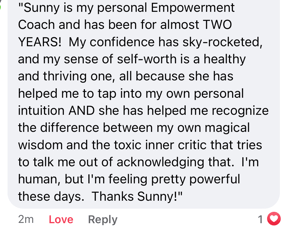
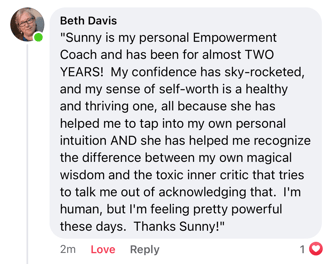
SPP: Beth's full screenshot (her permission)

diff --git a/shadow-priestess-path/index.html b/shadow-priestess-path/index.html
@@ -245,7 +245,7 @@ footer{padding:28px 0 40px;text-align:center;font:600 11px/1.6 var(--label);lett
       <img src="proof-2.png" width="333" height="237" loading="lazy" alt="A student: Before meeting Sunny I never knew just how much power resided within me. In my entire 42 years of life I have never encountered a better teacher.">
       <img src="proof-3.png" width="333" height="280" loading="lazy" alt="A student: Before working with Sunny I didn't feel all that connected to my intuition. Her teaching method is full of warmth, patience, kindness, and acceptance.">
       <img src="proof-4.png" width="333" height="362" loading="lazy" alt="A student: I was going through a rough patch and felt stuck until I found Sunny. I did shadow work, readings, learned some tarot, and found my light again.">
-      <img src="proof-5.png" width="291" height="234" loading="lazy" alt="A student: My confidence has sky-rocketed. She has helped me tap into my own personal intuition and recognize my own magical wisdom.">
+      <img src="proof-5.png" width="333" height="264" loading="lazy" alt="Beth Davis: My confidence has sky-rocketed. She has helped me tap into my own personal intuition and recognize my own magical wisdom.">
       <img src="proof-6.png" width="333" height="312" loading="lazy" alt="A student: Working with Sunny makes it so much easier to tear down those blocks and really connect with the universe and my guides.">
     </div>
   </div>
